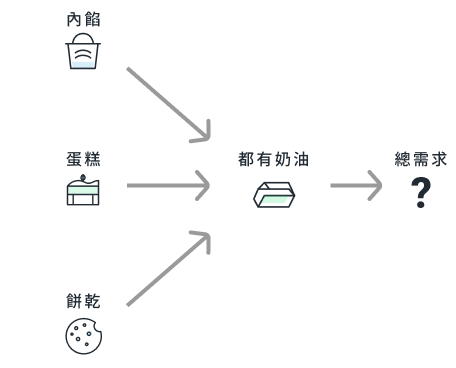
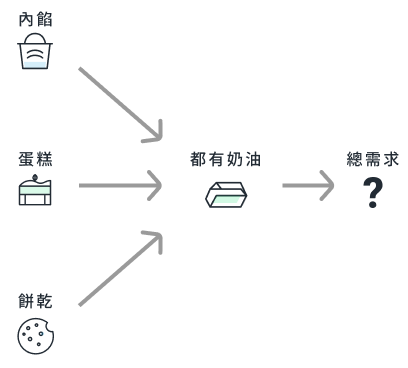
fix: responsive work page layout

diff --git a/src/app/works/interactive-space/page.tsx b/src/app/works/interactive-space/page.tsx
@@ -3,7 +3,6 @@ import WorkHero from "@/components/sections/workHero";
 import WorkSectionTitle from "@/components/sections/WorkSectionTitle";
 import WorkSectionSubtitle from "@/components/sections/WorkSectionSubtitle";
 import Image from "next/image";
-// import interactivespace01 from "@/assets/image/Work/interactive-space/interactive-space-01.png";
 import interactivespace02 from "@/assets/image/Work/interactive-space/interactive-space-02.png";
 import interactivespace03 from "@/assets/image/Work/interactive-space/interactive-space-03.png";
 import interactivespace04 from "@/assets/image/Work/interactive-space/interactive-space-04.png";
@@ -17,9 +16,14 @@ import interactivespace11 from "@/assets/image/Work/interactive-space/interactiv
 import interactivespace12 from "@/assets/image/Work/interactive-space/interactive-space-12.png";
 import interactivespace13 from "@/assets/image/Work/interactive-space/interactive-space-13.png";
 import interactivespace14 from "@/assets/image/Work/interactive-space/interactive-space-14.png";
+import interactivespace1401 from "@/assets/image/Work/interactive-space/interactive-space-14-1.png";
+import interactivespace1402 from "@/assets/image/Work/interactive-space/interactive-space-14-2.png";
 import interactivespace15 from "@/assets/image/Work/interactive-space/interactive-space-15.png";
 import interactivespace16 from "@/assets/image/Work/interactive-space/interactive-space-16.png";
 import interactivespace17 from "@/assets/image/Work/interactive-space/interactive-space-17.png";
+import interactivespace1701 from "@/assets/image/Work/interactive-space/interactive-space-17-01.png";
+import interactivespace1702 from "@/assets/image/Work/interactive-space/interactive-space-17-02.png";
+
 
 import recipe08 from "@/assets/image/Work/recipe/recipe-08.png";
 
@@ -35,18 +39,12 @@ export default function Page() {
         description="在超擬真 3D 空間中，即時配置、替換家具與規格的空間設計工具，降低專業工具操作門檻，協助非專業使用者快速建立並比較不同方案，完成決策。"
       />
       <iframe
-       className="col-start-2 col-span-6 -mt-4"
+       className="col-span-full md:col-start-2 md:col-span-6 -mt-4 w-full aspect-video"
        title="vimeo-player"
-       src="https://player.vimeo.com/video/952197467?h=f91f9b3b2f" width="640" height="360"
+       src="https://player.vimeo.com/video/952197467?h=f91f9b3b2f"
        frameBorder="0"
        referrerPolicy="strict-origin-when-cross-origin"
        allow="autoplay; fullscreen; picture-in-picture; clipboard-write; encrypted-media; web-share"   allowFullScreen></iframe>
-      {/* <section className="col-start-2 col-span-6 pb-4">
-        <Image
-          src={interactivespace01}
-          alt="互動空間產品畫面"
-        />
-      </section> */}
 
       <section className="col-start-2 col-span-6 pb-40">
         <WorkSectionTitle>01 Overview｜專案概述</WorkSectionTitle>
@@ -123,13 +121,13 @@ export default function Page() {
           alt="優先目標用戶 Persona"
           className="pb-20"
         />
-
-        <WorkSectionSubtitle>|| Why this user?</WorkSectionSubtitle>
-
-        <Image
-          src={interactivespace07}
-          alt="Why this user"
-        />
+        <div className="hidden md:block">
+          <WorkSectionSubtitle>|| Why this user?</WorkSectionSubtitle>
+          <Image
+            src={interactivespace07}
+            alt="Why this user"
+          />
+        </div>
 
         <p className="flex items-center justify-center text-center text-textPrimaryColor text-subSectionTitle leading-subSectionTitle tracking-subSectionTitle font-weight-bold py-40">
           「許多需求只需要設計師 20% 的能力，但市場上沒有 0.2 個設計師。」
@@ -204,7 +202,17 @@ export default function Page() {
           <Image
             src={interactivespace14}
             alt=""
-            className="pb-10"
+            className="pb-10 hidden md:block"
+          />
+          <Image
+            src={interactivespace1401}
+            alt=""
+            className="pb-10 md:hidden"
+          />
+            <Image
+            src={interactivespace1402}
+            alt=""
+            className="pb-10 md:hidden"
           />
         <div className="flex items-start gap-3 pb-10">
           <Image
@@ -246,7 +254,17 @@ export default function Page() {
           <Image
             src={interactivespace17}
             alt=""
-            className="pb-10"
+            className="pb-10 hidden md:block"
+          />
+          <Image
+            src={interactivespace1701}
+            alt=""
+            className="pb-10 md:hidden"
+          />
+          <Image
+            src={interactivespace1702}
+            alt=""
+            className="pb-10 md:hidden"
           />
         <div className="flex items-start gap-3 pb-10">
           <Image

diff --git a/src/app/works/design-guideline/page.tsx b/src/app/works/design-guideline/page.tsx
@@ -108,7 +108,7 @@ export default function Page() {
       <p className="text-subContent leading-subContent tracking-subContent pb-6">
         統整List
       </p>
-      <div className="flex pb-12">
+      <div className="md:flex pb-12">
         <div>
           <p className="text-subContent leading-subContent tracking-subContent pb-6">
             重新整理 List 規範，統一不同情境下的結構與使用方式，提升設計一致性與後續擴充性。
@@ -119,7 +119,7 @@ export default function Page() {
           />
         </div>
         <div>
-          <p className="text-subContent leading-subContent tracking-subContent pb-6">
+          <p className="text-subContent leading-subContent tracking-subContent pb-6 pt-10">
             實際範例
           </p>
           <Image
@@ -155,7 +155,7 @@ export default function Page() {
         src={guideline07}
         alt=""
       />
-      <p className="text-subContent leading-subContent tracking-subContent pb-6">
+      <p className="text-subContent leading-subContent tracking-subContent pb-6 pt-10">
         範例:Banner設計規範
       </p>
       <Image

diff --git a/src/app/works/recipe/page.tsx b/src/app/works/recipe/page.tsx
@@ -55,12 +55,12 @@ export default function Page() {
         <Image
           src={recipe01mobile1}
           alt="新增配方功能畫面"
-          className="block pb-4 w-full h-auto md:hidden"
+          className="block pb-4 w-[80%] mx-auto md:hidden"
         />
         <Image
           src={recipe01mobile2}
           alt="新增配方功能畫面"
-          className="block md:hidden w-full h-auto"
+          className="block pb-4 w-[80%] mx-auto md:hidden"
         />
       </section>
       <section className="col-start-2 col-span-6 pb-40">
